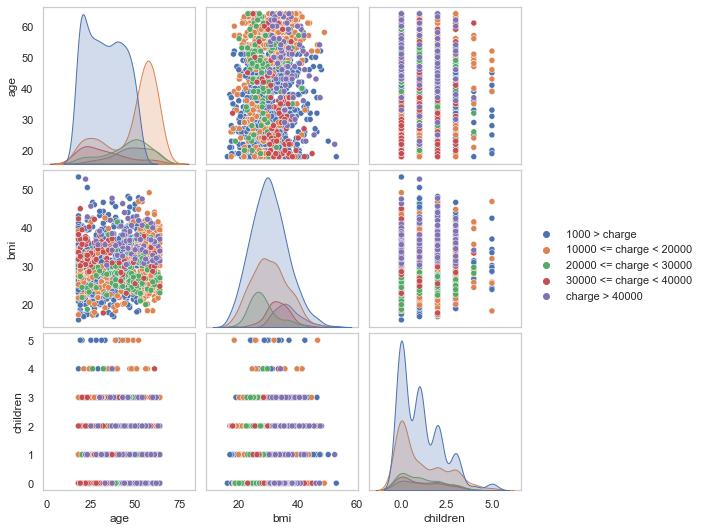
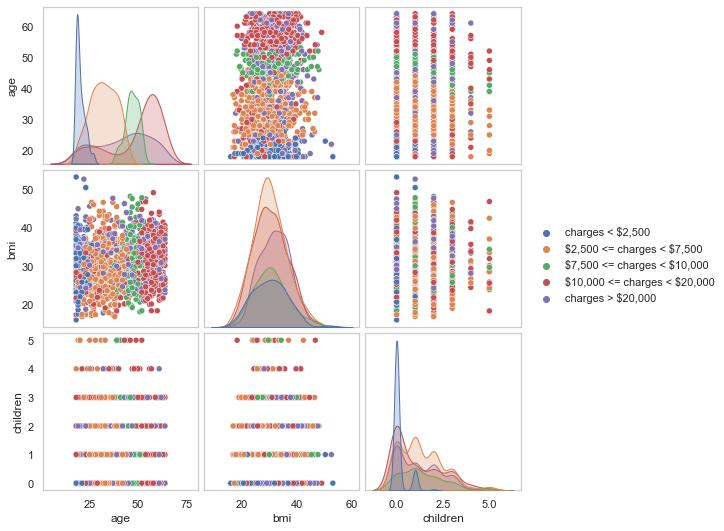
pairplot edited

diff --git a/code/eda.py b/code/eda.py
@@ -34,20 +34,26 @@ plt.show()
 
 charges_binned = []
 for idx, val in enumerate(df['charges']):
-    if val < 10000:
-        charges_binned.append('1000 > charge')
+    if val < 2500:
+        charges_binned.append('charges < \$2,500')
+    elif (val >=2500) and (val < 7500):
+        charges_binned.append('\$2,500 <= charges < \$7,500')
+    elif (val >=7500) and (val < 10000):
+        charges_binned.append('\$7,500 <= charges < \$10,000')
     elif (val >=10000) and (val < 20000):
-        charges_binned.append('10000 <= charge < 20000')
-    elif (val >=20000) and (val < 30000):
-        charges_binned.append('20000 <= charge < 30000')
-    elif (val >=30000) and (val < 40000):
-        charges_binned.append('30000 <= charge < 40000')
+        charges_binned.append('\$10,000 <= charges < \$20,000')
     else:
-        charges_binned.append('charge > 40000')
+        charges_binned.append('charges > \$20,000')
 
 df['charges_binned'] = charges_binned       
-g = sns.pairplot(df.loc[:,df.columns != 'charges'].sort_values(['charges_binned']),
-                  hue='charges_binned')
+g = sns.pairplot(df.loc[:,df.columns != 'charges'],
+                  hue='charges_binned',
+                  hue_order = ['charges < \$2,500',
+                               '\$2,500 <= charges < \$7,500',
+                               '\$7,500 <= charges < \$10,000',
+                               '\$10,000 <= charges < \$20,000',
+                               'charges > \$20,000'
+                               ])
 for ax in g.axes.flatten():
     ax.grid(False)
     ax.spines['right'].set_visible(True)
